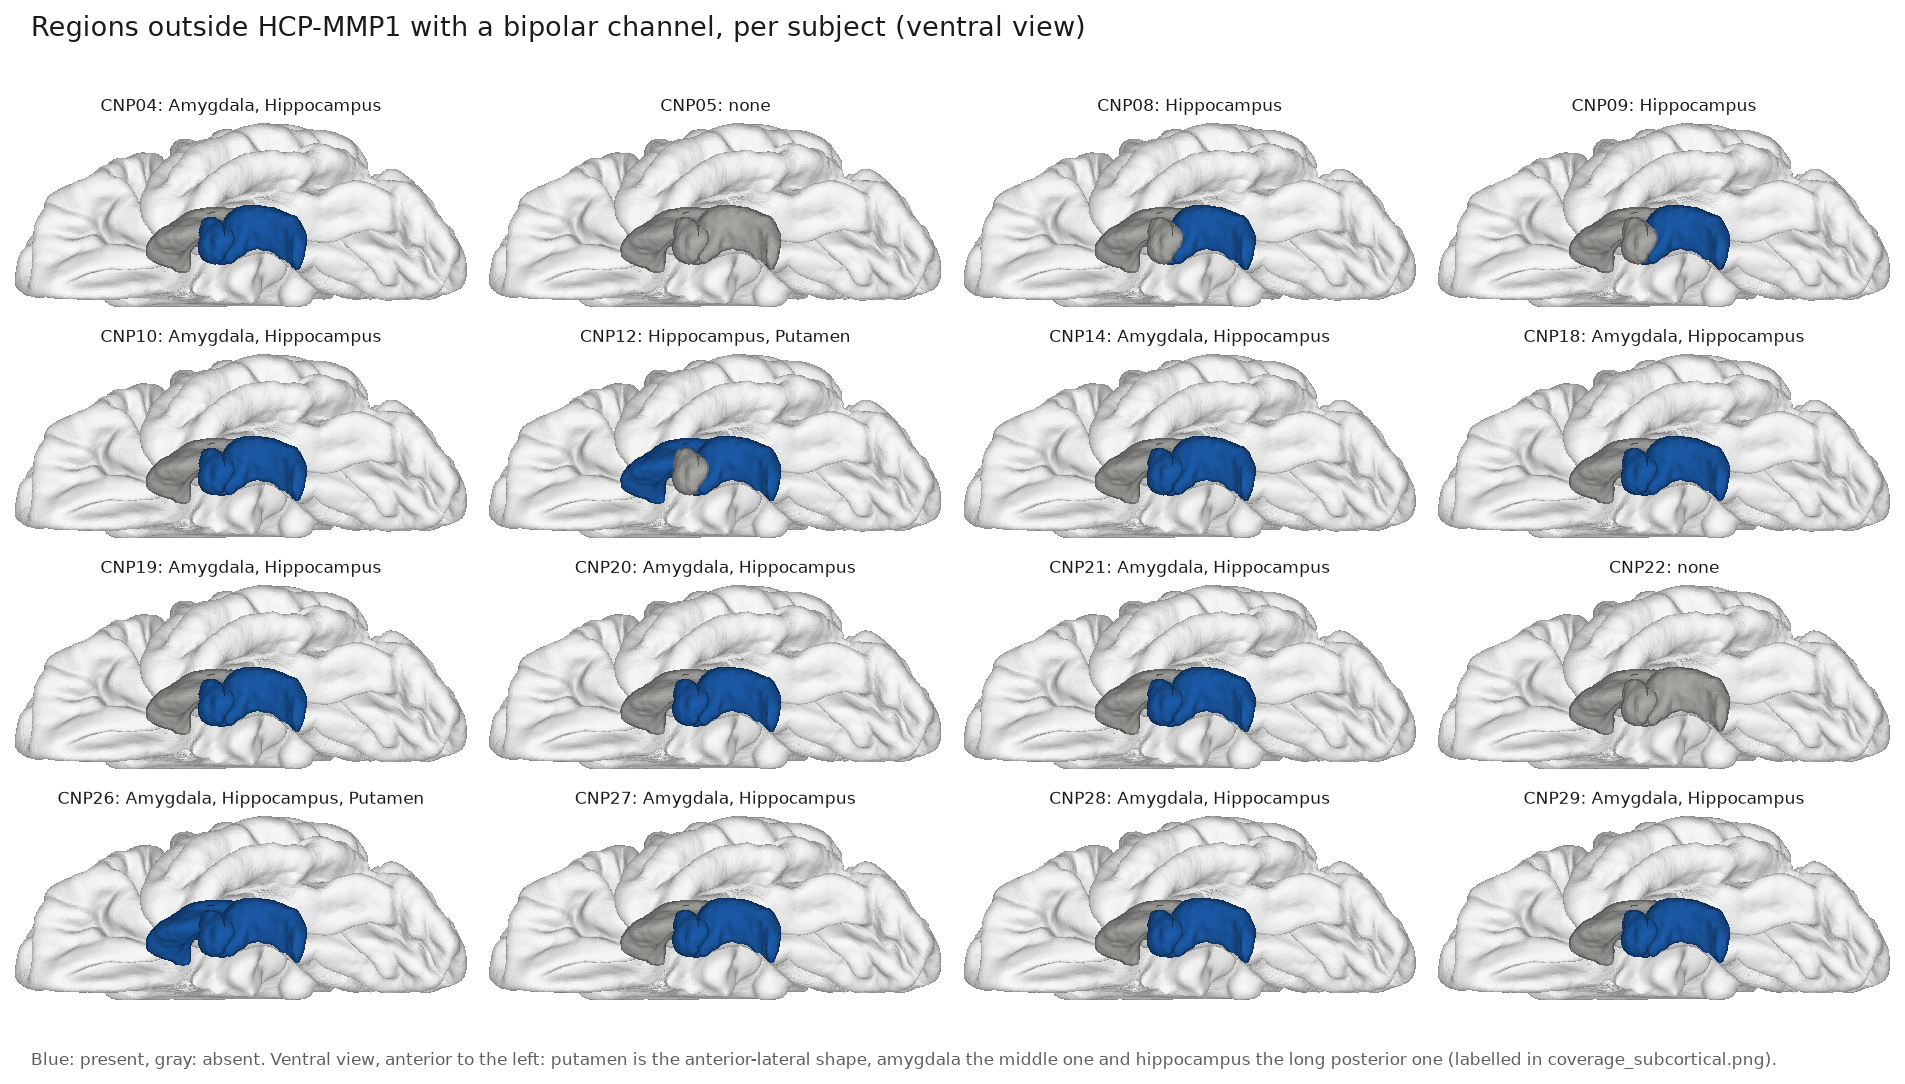
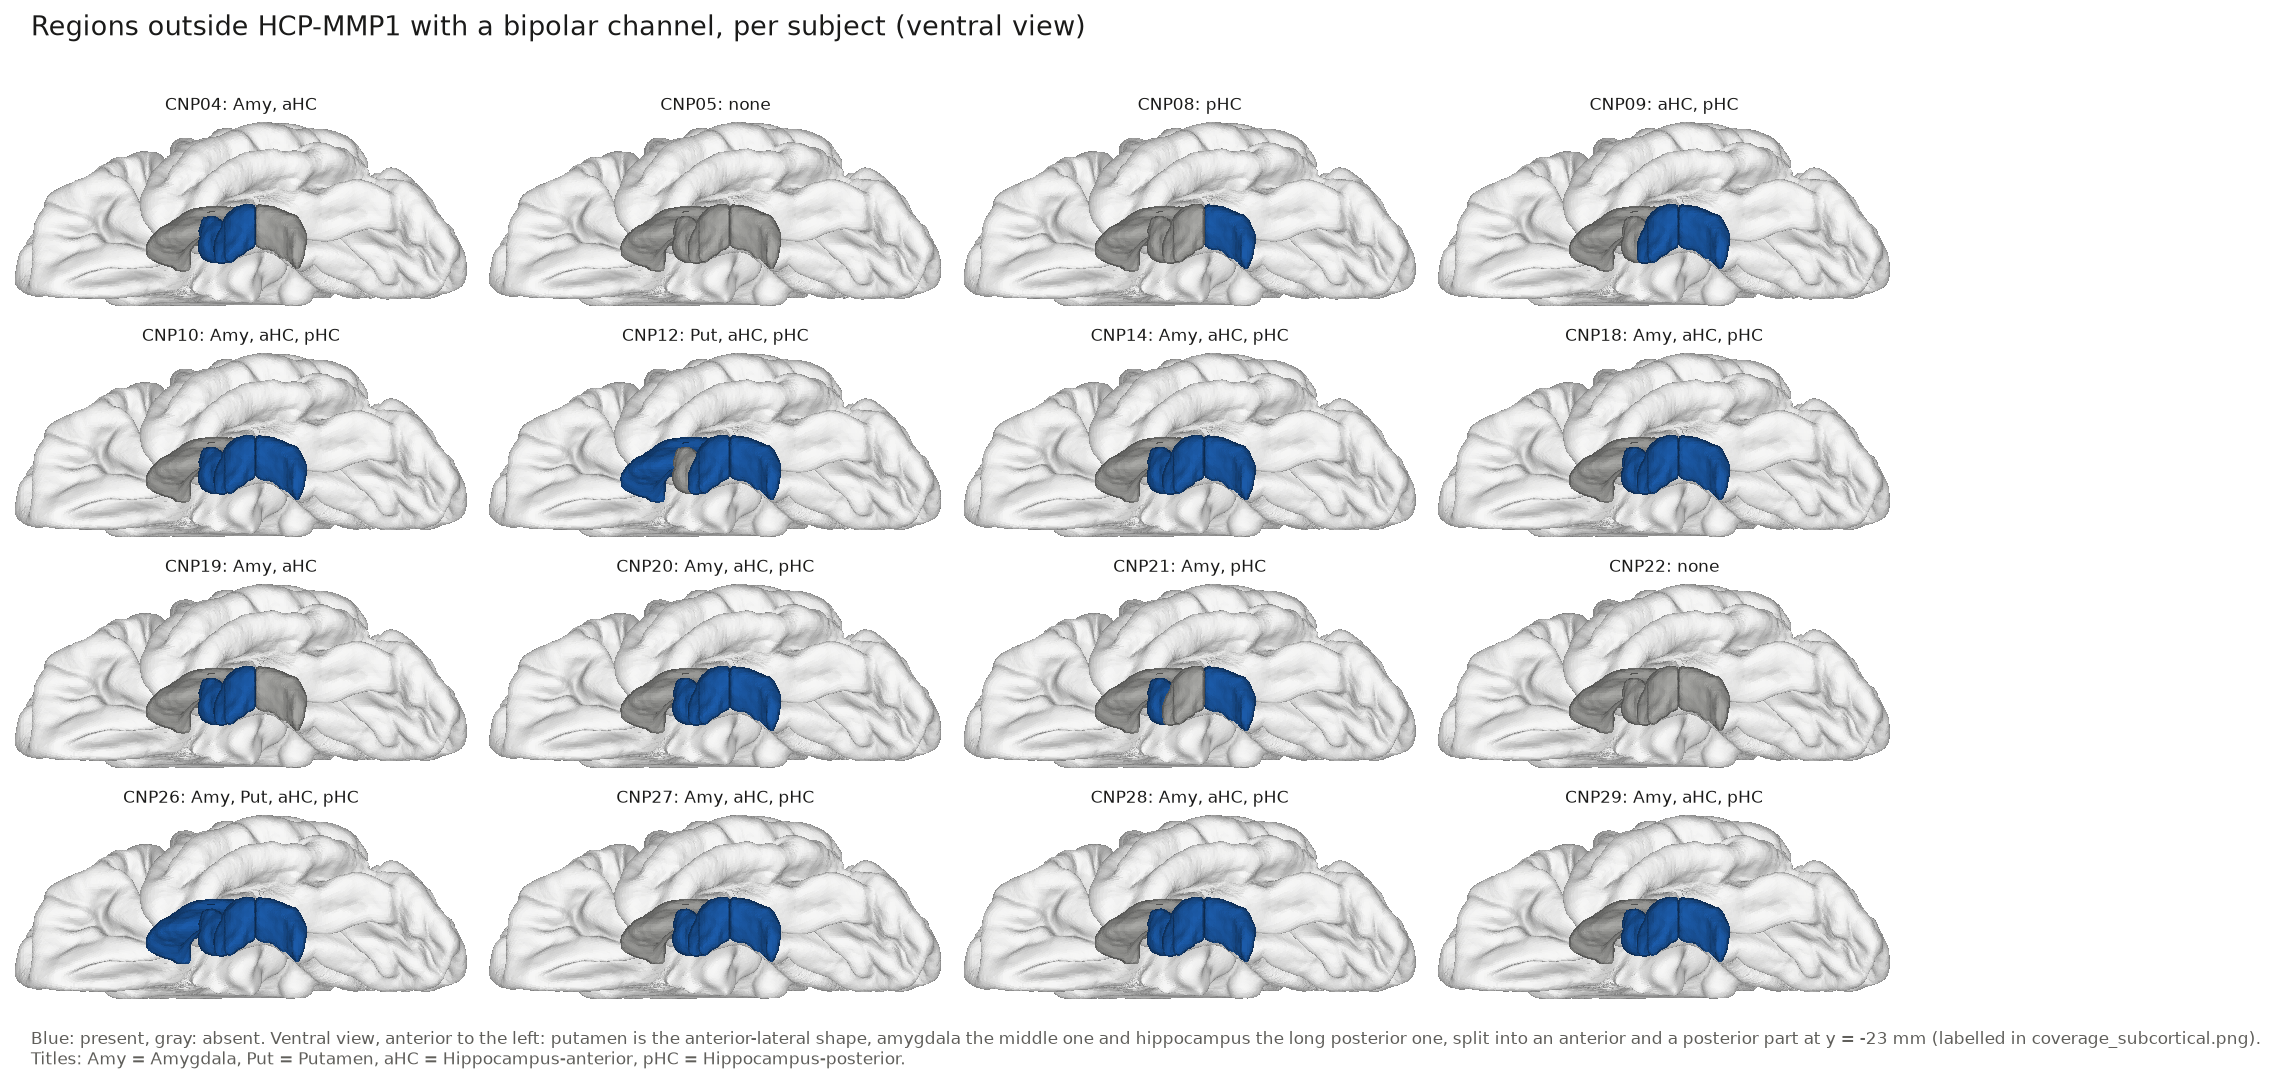
Coverage figures with the anterior/posterior hippocampus split
The aseg hippocampus is cut at y = -23 mm into Hippocampus-anterior and
Hippocampus-posterior meshes. Regenerate the coverage figures from
random_data_bipolar_xgboost_3w.pkl (new default) with the updated
electrode placements; break long subcortical labels over two lines and
abbreviate the per-subject titles.

Claude-Session: https://claude.ai/code/session_01E7t6Tc3gYXv9BQMm3eai5Y

diff --git a/electrode coverages/plot_electrode_coverage.py b/electrode coverages/plot_electrode_coverage.py
@@ -1,14 +1,15 @@
 """Plot electrode (bipolar channel) coverage on fsaverage.
 
 The feature table stores one set of band-power features per HCP-MMP1 parcel
-(plus Amygdala, Hippocampus and Putamen), and a parcel is NaN for subjects
+(plus Amygdala, anterior/posterior Hippocampus and Putamen), and a parcel is NaN for subjects
 without a bipolar channel in it. Coverage is therefore defined per parcel as
 the number of subjects that have data in that parcel. Hemispheres are pooled in
 the feature names, so everything is drawn on the left hemisphere.
 
 Regions that are not in HCP-MMP1 (Amygdala, Hippocampus, Putamen) are drawn as
 meshes extracted from the fsaverage aseg segmentation, inside a faded pial
-surface. All group figures share one color scale running from 1 to the number
+surface. Anterior and posterior hippocampus are the aseg hippocampus cut at
+y = -23 mm (HIPPOCAMPUS_SPLIT_Y). All group figures share one color scale running from 1 to the number
 of subjects; the per-subject figures only show present/absent.
 
 Figures written to --out-dir:
@@ -51,7 +52,14 @@ FSAVERAGE_FILES = {
 ASEG_LABELS = {
     "Thalamus": 10, "Caudate": 11, "Putamen": 12, "Pallidum": 13,
     "Hippocampus": 17, "Amygdala": 18, "Accumbens": 26, "VentralDC": 28,
+    "Hippocampus-anterior": 17, "Hippocampus-posterior": 17,
 }
+# Short names for the per-subject titles.
+SHORT = {"Amygdala": "Amy", "Putamen": "Put", "Hippocampus": "HC",
+         "Hippocampus-anterior": "aHC", "Hippocampus-posterior": "pHC"}
+# The hippocampus is split into an anterior and a posterior part at this
+# y coordinate (mm; MNI y = -23, applied in fsaverage space, which is MNI305).
+HIPPOCAMPUS_SPLIT_Y = -23.0
 
 # Sequential blue ramp, light -> dark.
 BLUES = ["#b7d3f6", "#9ec5f4", "#86b6ef", "#6da7ec", "#5598e7", "#3987e5",
@@ -160,9 +168,16 @@ def aseg_meshes(aseg_path: Path, structures) -> dict:
     img = nib.load(aseg_path)
     seg = np.asarray(img.dataobj)
     tkr = img.header.get_vox2ras_tkr()
+    # y (anterior) coordinate of every voxel, for the hippocampus split
+    y = nib.affines.apply_affine(tkr, np.indices(seg.shape).reshape(3, -1).T)[:, 1].reshape(seg.shape)
     meshes = {}
     for name in structures:
-        mask = gaussian_filter((seg == ASEG_LABELS[name]).astype(float), 1.0)
+        region = seg == ASEG_LABELS[name]
+        if name.endswith("-anterior"):
+            region &= y >= HIPPOCAMPUS_SPLIT_Y
+        elif name.endswith("-posterior"):
+            region &= y < HIPPOCAMPUS_SPLIT_Y
+        mask = gaussian_filter(region.astype(float), 1.0)
         verts, faces, _, _ = marching_cubes(mask, 0.5)
         verts = nib.affines.apply_affine(tkr, verts)
         if np.linalg.det(tkr[:3, :3]) < 0:   # keep normals pointing outwards
@@ -185,7 +200,7 @@ def draw_glass_brain(ax, pial_v, faces, ghost_rgb, meshes, colors, view, labels=
         ymin, ymax = xy[:, 1].min(), xy[:, 1].max()
         y_text = ymin - 0.1 * (ymax - ymin)
         names = sorted(meshes, key=lambda n: meshes[n][0].mean(0) @ right)
-        x_text = np.linspace(*np.percentile(xy[:, 0], [8, 92]), len(names))
+        x_text = np.linspace(*np.percentile(xy[:, 0], [4, 96]), len(names))
         for name, xt in zip(names, x_text):
             c = meshes[name][0].mean(0)
             ax.annotate(labels[name], (c @ right, c @ up), xytext=(xt, y_text), ha="center", va="top",
@@ -216,7 +231,7 @@ def add_colorbar(fig, cax, cmap, norm, vmax):
 
 def main():
     ap = argparse.ArgumentParser(description=__doc__, formatter_class=argparse.RawDescriptionHelpFormatter)
-    ap.add_argument("--pkl", type=Path, default=REPO / "real_data_bipolar_xgboost_3w.pkl")
+    ap.add_argument("--pkl", type=Path, default=REPO / "random_data_bipolar_xgboost_3w.pkl")
     ap.add_argument("--out-dir", type=Path, default=HERE / "figures")
     ap.add_argument("--cache", type=Path, default=REPO / "data" / "fsaverage")
     args = ap.parse_args()
@@ -306,10 +321,10 @@ def main():
     ghost = np.where((sulc > 0)[:, None], SULCUS, GYRUS) * 0.25 + 0.75
     absent = SULCUS
     group_colors = {r: np.array(cmap(norm(n_subj[r]))[:3]) if n_subj[r] > 0 else absent for r in subcortical}
-    labels = {r: f"{r}\n{int(n_subj[r])} subjects" for r in subcortical}
+    labels = {r: f"{r.replace('-', chr(10))}\n{int(n_subj[r])} subjects" for r in subcortical}
 
-    fig, axes = plt.subplots(1, 3, figsize=(13, 4.3), facecolor="white",
-                             gridspec_kw=dict(wspace=0.02, width_ratios=[1, 1, 1.25]))
+    fig, axes = plt.subplots(1, 3, figsize=(14, 4.3), facecolor="white",
+                             gridspec_kw=dict(wspace=0.15, width_ratios=[1, 1, 1.25]))
     for ax, view in zip(axes, VIEWS):
         draw_glass_brain(ax, pial_v, faces, ghost, meshes, group_colors, view, labels)
         ax.set_title(view, fontsize=10, color=INK)
@@ -327,14 +342,18 @@ def main():
         colors = {r: present if row[r] else absent for r in subcortical}
         draw_glass_brain(ax, pial_v, faces, ghost, meshes, colors, "Ventral")
         have = [r for r in subcortical if row[r]]
-        ax.set_title(f"{subj}: {', '.join(have) if have else 'none'}", fontsize=8, color=INK)
+        ax.set_title(f"{subj}: {', '.join(SHORT.get(r, r) for r in have) if have else 'none'}",
+                     fontsize=8, color=INK)
     for ax in axes.ravel()[len(cov):]:
         ax.axis("off")
     fig.suptitle("Regions outside HCP-MMP1 with a bipolar channel, per subject (ventral view)",
                  fontsize=13, color=INK, x=0.02, ha="left")
     fig.text(0.02, -0.02, "Blue: present, gray: absent. Ventral view, anterior to the left: putamen is the "
-             "anterior-lateral shape, amygdala the middle one and hippocampus the long posterior one "
-             "(labelled in coverage_subcortical.png).", fontsize=8, color=INK_MUTED)
+             "anterior-lateral shape, amygdala the middle one and hippocampus the long posterior one, "
+             f"split into an anterior and a posterior part at y = {HIPPOCAMPUS_SPLIT_Y:g} mm "
+             "(labelled in coverage_subcortical.png).\n"
+             "Titles: " + ", ".join(f"{v} = {k}" for k, v in SHORT.items() if k in subcortical) + ".",
+             fontsize=8, color=INK_MUTED)
     fig.tight_layout(rect=(0, 0, 1, 0.97))
     fig.savefig(args.out_dir / "coverage_subcortical_per_subject.png", dpi=150, bbox_inches="tight")
     plt.close(fig)

diff --git a/shap analysis/plot_new_vs_repeated.py b/shap analysis/plot_new_vs_repeated.py
@@ -157,7 +157,7 @@ def draw_region_map(ax, geo, values: pd.Series, norm, n_labels=0, inset_labels=T
         colors = {r: np.array(DIVERGING(norm(outside[r]))[:3]) for r in subcortical}
         sub = ax.inset_axes([-0.04, 0.0, 0.34, 0.38])
         draw_glass_brain(sub, geo.pial_v, geo.faces, ghost, {r: geo.meshes[r] for r in subcortical},
-                         colors, "Ventral", {r: r for r in subcortical} if inset_labels else None)
+                         colors, "Ventral", {r: r.replace("-", "\n") for r in subcortical} if inset_labels else None)
         if inset_labels:
             sub.set_title("Outside HCP-MMP1 (ventral view)", fontsize=7, color=INK_MUTED, pad=2)
 
